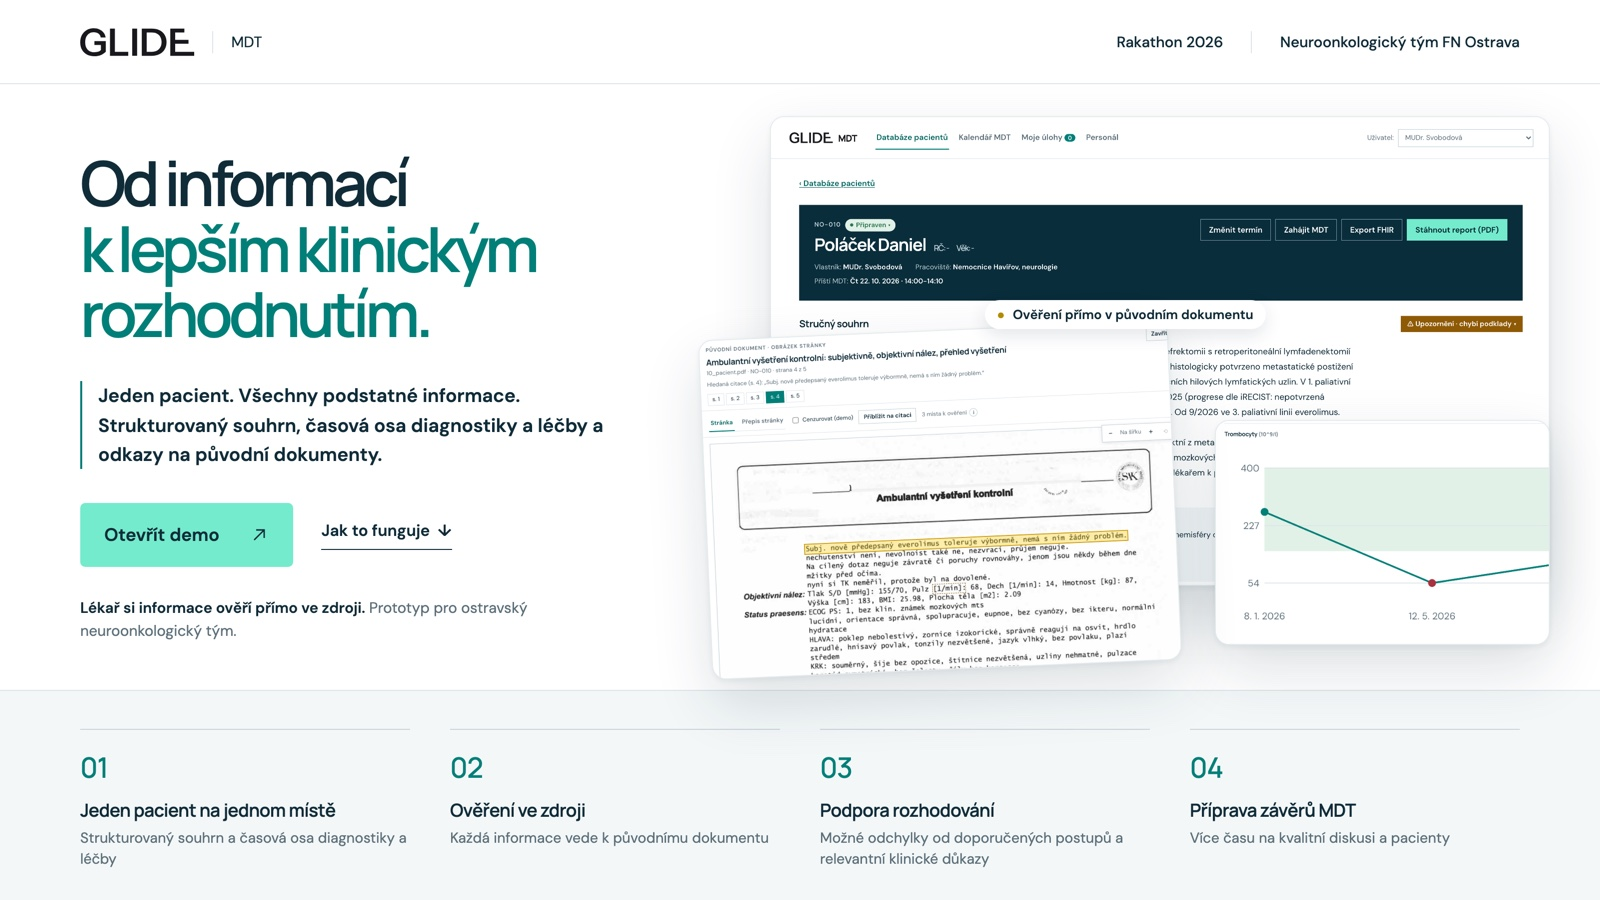
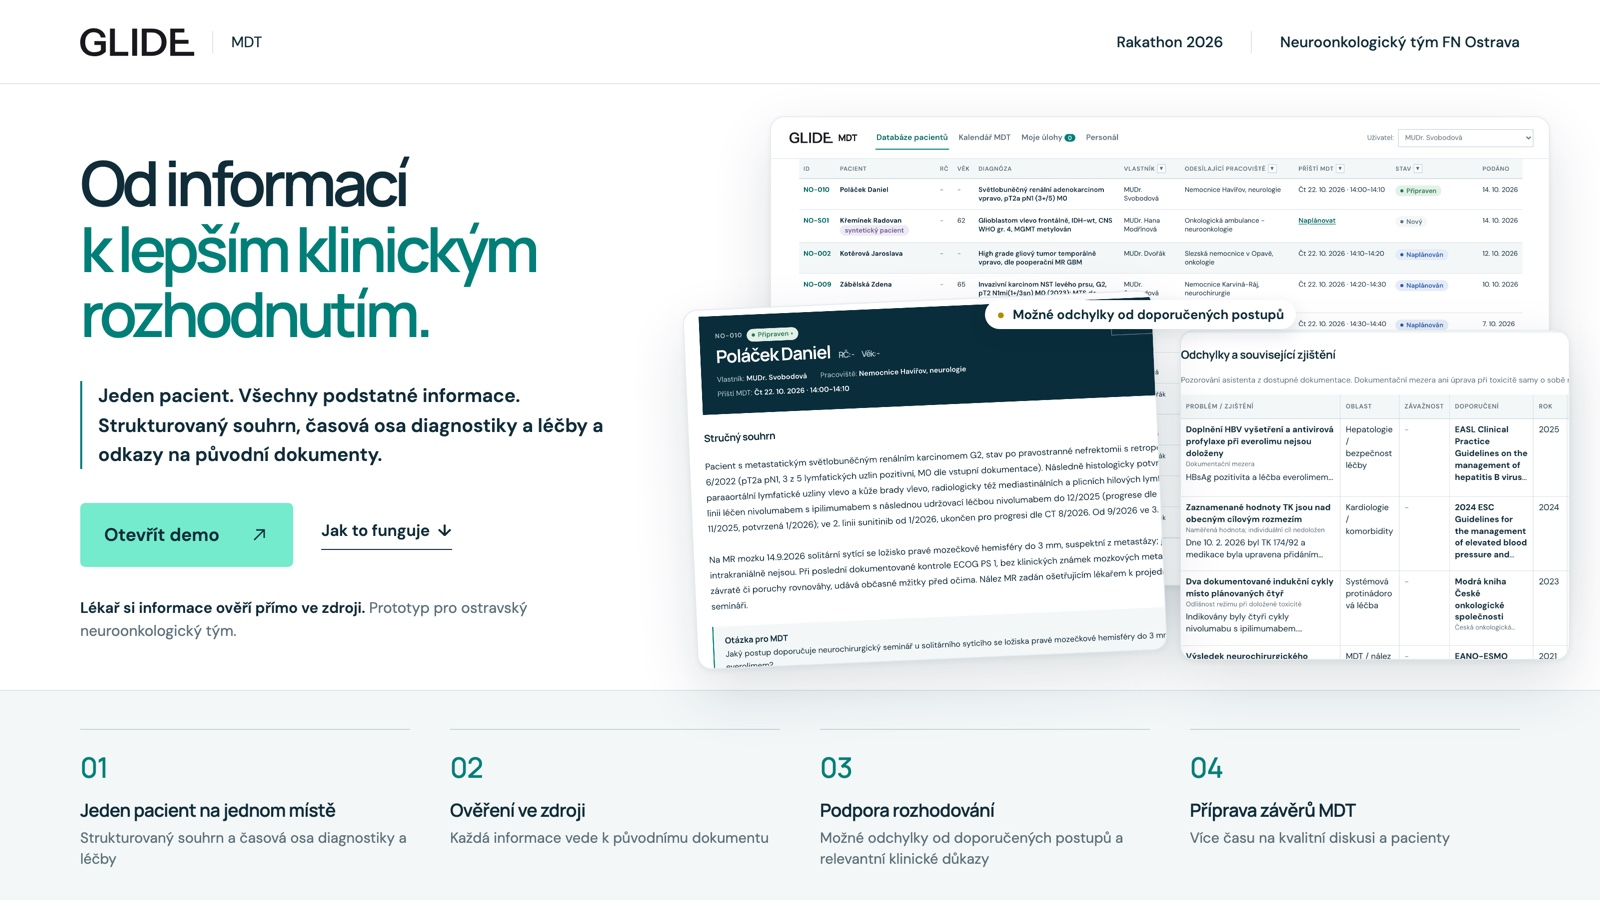
Cover and landing hero: patient database behind, patient view and retrospective deviations (long cells clamped) in front

Changed region(s): [[0.4375, 0.1867, 1.0, 0.7467]]

diff --git a/site/index.html b/site/index.html
@@ -65,11 +65,11 @@
   .shot img { width:100%; height:100%; object-fit:cover; }
   .stage .s1 { right:-60px; top:0; width:92%; height:76%; }
   .stage .s1 img { object-position:0 0; }
-  .stage .s2 { left:0; bottom:0; width:60%; height:58%; transform:rotate(-2.5deg); }
-  .stage .s2 img { width:150%; max-width:none; height:auto; margin-left:-40%; object-fit:initial; }
-  .stage .s3 { right:-30px; bottom:40px; width:46%; height:38%; }
-  .stage .s3 img { width:200%; max-width:none; height:auto; margin:-9% 0 0 -4%; object-fit:initial; }
-  .pill { position:absolute; z-index:3; left:36%; top:42%; background:#fff; border-radius:999px; padding:7px 14px; font-size:13px; font-weight:600; box-shadow:0 6px 18px rgba(16,44,57,.12); white-space:nowrap; }
+  .stage .s2 { left:0; bottom:0; width:54%; height:60%; transform:rotate(-2.5deg); z-index:2; }
+  .stage .s2 img { width:170%; max-width:none; height:auto; margin:-17% 0 0 -3%; object-fit:initial; }
+  .stage .s3 { right:-50px; bottom:40px; width:44%; height:46%; z-index:3; }
+  .stage .s3 img { width:230%; max-width:none; height:auto; object-fit:initial; }
+  .pill { position:absolute; z-index:4; left:36%; top:40%; background:#fff; border-radius:999px; padding:7px 14px; font-size:13px; font-weight:600; box-shadow:0 6px 18px rgba(16,44,57,.12); white-space:nowrap; }
   .pill i { color:#b38b00; font-style:normal; margin-right:6px; }
   @media (max-width:960px) { .hero .wrap { grid-template-columns:1fr; } .stage { height:clamp(240px,62vw,460px); } .stage .s1 { right:0; width:100%; height:80%; } .stage .s2, .stage .s3, .pill { display:none; } }
 
@@ -182,10 +182,10 @@
         <p class="note"><b>Lékař si informace ověří přímo ve zdroji.</b> Prototyp pro ostravský neuroonkologický tým.</p>
       </div>
       <div class="stage" aria-hidden="true">
-        <div class="shot s1"><img src="img/overview.jpg" alt="" loading="eager"></div>
-        <div class="shot s3"><img src="img/tab-alerts.jpg" alt=""></div>
-        <div class="shot s2"><img src="img/source.jpg" alt=""></div>
-        <div class="pill"><i>●</i>Ověření přímo v původním dokumentu</div>
+        <div class="shot s1"><img src="img/patients.jpg" alt="" loading="eager"></div>
+        <div class="shot s2"><img src="img/overview.jpg" alt=""></div>
+        <div class="shot s3"><img src="img/dev-clamped.jpg" alt=""></div>
+        <div class="pill"><i>●</i>Možné odchylky od doporučených postupů</div>
       </div>
     </div>
   </section>

diff --git a/scripts/cover/cover.html b/scripts/cover/cover.html
@@ -77,21 +77,28 @@
   </div>
 
   <script>
-    /* Variants swap what the three app cards show (?v=a|b|c|d); "a" is the gallery cover. Each entry gives a card
+    /* Variants swap what the three app cards show (?v=a|b|c|d|f); "a" is the gallery cover. Each entry gives a card
        its screenshot, the width the shot is scaled to, and the offset of the visible part. */
     const V = {
-      a: { tag: "Ověření přímo v původním dokumentu",
+      f: { tag: "Ověření přímo v původním dokumentu",
            main: ["overview", 780, 0, 0], src: ["source", 660, -177, -2], labs: ["labs", 600, -13, -127] },
       b: { tag: "Chybějící podklady vidíte hned",
            main: ["calendar", 780, 0, 0], src: ["tab-alerts", 820, -12, -40], labs: ["patients", 640, -20, -70] },
       c: { tag: "Doporučení citovaná doslovně, se zdrojem",
            main: ["tab-next", 780, 0, 0], src: ["tab-dev", 820, -12, -40], labs: ["source", 560, -150, -110] },
+      /* a (gallery cover): the patient database behind, the left part of a patient's view in front (header and summary, without
+         the action buttons), and the retrospective deviations table with long cells clamped. */
+      a: { tag: "Možné odchylky od doporučených postupů",
+           main: ["patients", 780, 0, 0],
+           src: ["overview", 800, -14, -84, { left: 690, top: 300, width: 470, height: 360 }],
+           labs: ["dev-clamped", 840, 0, 0, { left: 1180, top: 330, width: 390, height: 330 }] },
       d: { tag: "Časová osa diagnostiky a léčby",
            main: ["tab-overview", 780, 0, -150], src: ["tab-documents", 820, -12, -40], labs: ["labs", 600, -13, -127] },
     };
     const cfg = V[new URLSearchParams(location.search).get("v") || "a"] || V.a;
     for (const k of ["main", "src", "labs"]) {
-      const [img, w, x, y] = cfg[k], el = document.querySelector(`.${k} .shot`);
+      const [img, w, x, y, box] = cfg[k], el = document.querySelector(`.${k} .shot`);
+      if (box) for (const [prop, val] of Object.entries(box)) el.parentElement.style[prop] = `${val}px`;
       el.style.backgroundImage = `url(shots/${img}.png)`; el.style.backgroundSize = `${w}px auto`; el.style.backgroundPosition = `${x}px ${y}px`;
     }
     document.querySelector(".tag .txt").textContent = cfg.tag;
